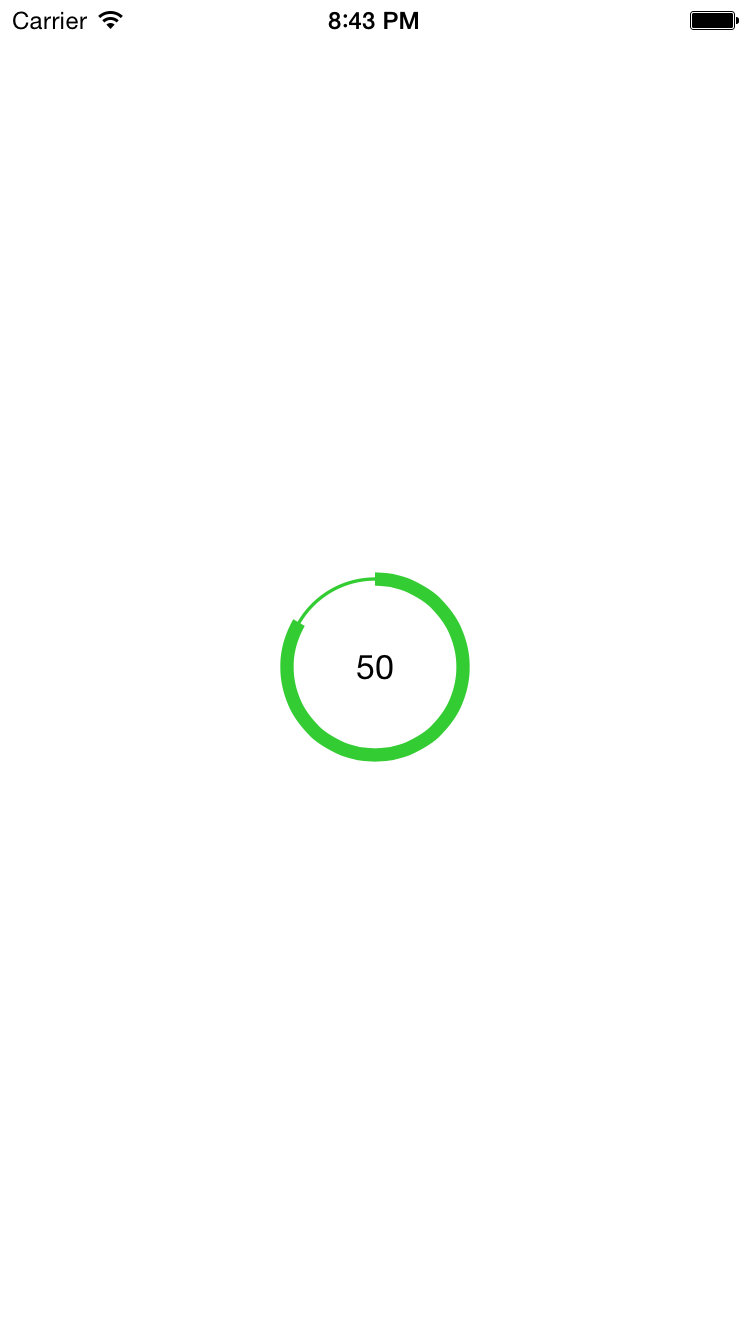
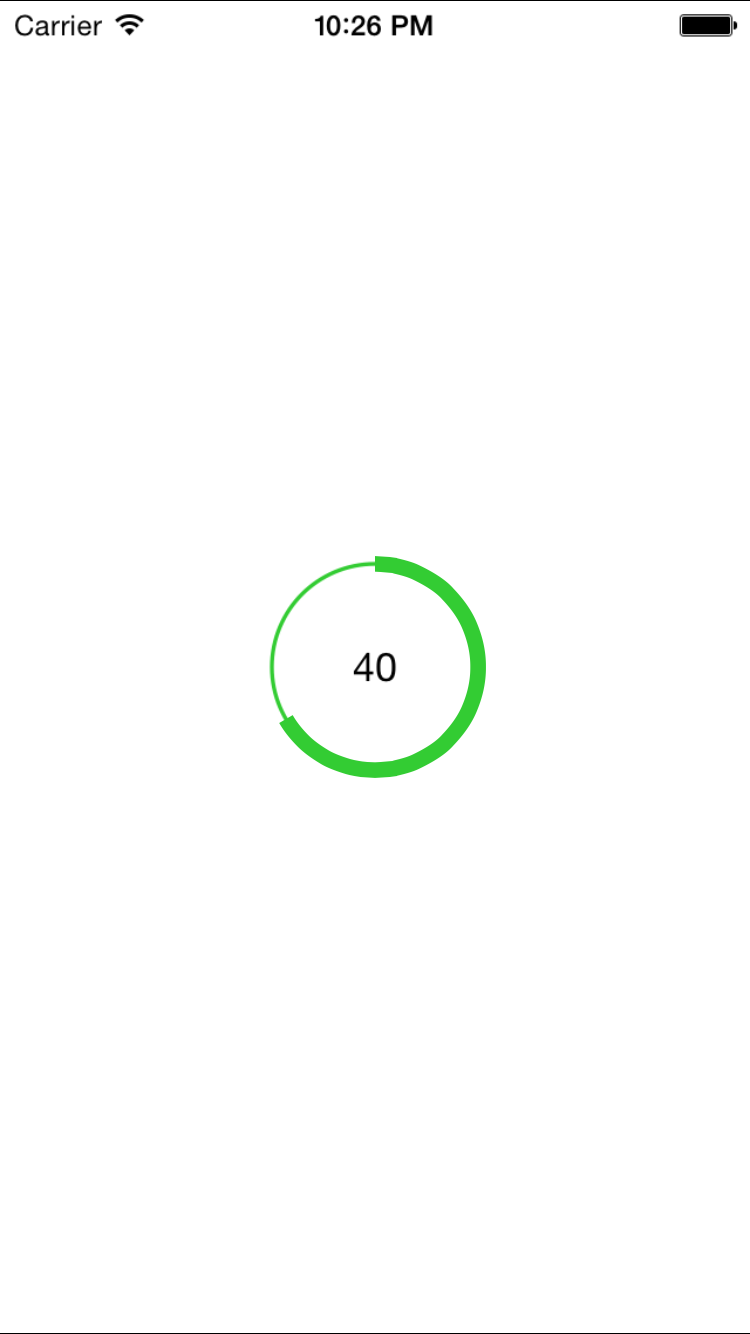
Update Example and README.md

diff --git a/Example/JSKTimerView/JSKViewController.m b/Example/JSKTimerView/JSKViewController.m
@@ -8,7 +8,10 @@
 
 #import "JSKViewController.h"
 
+
+
 @interface JSKViewController ()
+@property (weak, nonatomic) IBOutlet JSKTimerView *timerView;
 
 @end
 
@@ -17,13 +20,45 @@
 - (void)viewDidLoad
 {
     [super viewDidLoad];
-	// Do any additional setup after loading the view, typically from a nib.
+	
+    // Start timer
+    [self.timerView startTimerWithDuration:60];
+    
+    // Pause timer after 10 seconds
+    dispatch_after(dispatch_time(DISPATCH_TIME_NOW, (int64_t)(10 * NSEC_PER_SEC)), dispatch_get_main_queue(), ^{
+        [self.timerView pauseTimer];
+    });
+    
+    // Start timer again after 15 seconds
+    dispatch_after(dispatch_time(DISPATCH_TIME_NOW, (int64_t)(15 * NSEC_PER_SEC)), dispatch_get_main_queue(), ^{
+        [self.timerView startTimer];
+    });
+    
+    // Stop timer after 20 seconds
+    dispatch_after(dispatch_time(DISPATCH_TIME_NOW, (int64_t)(20 * NSEC_PER_SEC)), dispatch_get_main_queue(), ^{
+        [self.timerView stopTimer];
+    });
+    
+    // Reset timer back to original value after 25 seconds
+    dispatch_after(dispatch_time(DISPATCH_TIME_NOW, (int64_t)(25 * NSEC_PER_SEC)), dispatch_get_main_queue(), ^{
+        [self.timerView resetTimer];
+    });
+    
+    // Restart timer after 30 seconds
+    dispatch_after(dispatch_time(DISPATCH_TIME_NOW, (int64_t)(30 * NSEC_PER_SEC)), dispatch_get_main_queue(), ^{
+        [self.timerView restartTimer];
+    });
 }
 
-- (void)didReceiveMemoryWarning
-{
-    [super didReceiveMemoryWarning];
-    // Dispose of any resources that can be recreated.
+#pragma mark - JSK Timer View Delegate 
+
+- (void)timerDidFinish {
+    // Show an alert when timer finishes
+    UIAlertController *alertController = [UIAlertController alertControllerWithTitle:@"Alert" message:@"Timer finished!" preferredStyle:UIAlertControllerStyleAlert];
+    [alertController addAction:[UIAlertAction actionWithTitle:@"Ok" style:UIAlertActionStyleDefault handler:^(UIAlertAction *action) {
+        NSLog(@"Timer finished!");
+    }]];
 }
+
 
 @end

diff --git a/Example/JSKTimerView/JSKViewController.h b/Example/JSKTimerView/JSKViewController.h
@@ -7,7 +7,8 @@
 //
 
 #import <UIKit/UIKit.h>
+#import <JSKTimerView/JSKTimerView.h>
 
-@interface JSKViewController : UIViewController
+@interface JSKViewController : UIViewController <JSKTimerViewDelegate>
 
 @end

diff --git a/README.md b/README.md
@@ -5,13 +5,28 @@
 [![License](https://img.shields.io/cocoapods/l/JSKTimerView.svg?style=flat)](http://cocoadocs.org/docsets/JSKTimerView)
 [![Platform](https://img.shields.io/cocoapods/p/JSKTimerView.svg?style=flat)](http://cocoadocs.org/docsets/JSKTimerView)
 
+![Screenshot0][img0] 
+![Screenshot1][img1]
+![Screenshot2][img2]
+![Screenshot3][img3]
+
+JSKTimerView is a simple custom UIView that acts as a self-contained, animating timer.
+
+* Set up timer based in seconds
+* Start timer and have it animate automatically
+* Full control of timer: start, pause, stop, reset, and reset
+* Manually set timer progress and have timer update accordingly
+* Get notified when timer has finished
+* iOS 7+ and up
+
 ## Usage
 
 To run the example project, clone the repo, and run `pod install` from the Example directory first.
 
 ## Requirements
 
-None
+* iOS 7.0+
+* ARC
 
 ## Installation
 
@@ -19,6 +34,59 @@ JSKTimerView is available through [CocoaPods](http://cocoapods.org). To install
 it, simply add the following line to your Podfile:
 
     pod "JSKTimerView"
+
+# Getting Started
+
+````objective-c
+#import <JSKTimerView/JSKTimerView.h>    // Import the relevant header
+````
+
+Create a 60-sec timer
+```objective-c
+JSKTimerView *timerView = [[JSKTimerView alloc] init];
+[timerView setTimerWithDuration:60];
+```
+
+Start a timer
+```objective-c
+[timerView startTimer];
+```
+
+Pause a timer
+```objective-c
+[timerView pauseTimer];
+```
+
+Stop a timer
+```objective-c
+[timerView stopTimer];
+```
+
+Reset a timer
+```objective-c
+[timerView resetTimer];
+```
+
+Restart a timer
+```objective-c
+[timerView restartTimer];
+```
+
+Set timer progress manually 
+```objective-c
+// Progress should be a value between 0 and 1, timer value updates automatically
+timerView.progress = 0.5;
+```
+
+Know when the timer naturally ends
+```objective-c
+// Assume self refers to object that implements timerDidFinish method of JSKTimerViewDelegate
+timerView.setDelegate = self;
+
+- (void)timerDidFinish {
+    NSLog(@"Timer finished");
+}
+```
 
 ## Author
 
@@ -28,3 +96,11 @@ Joefrey Kibuule, jeff.kibuule@outlook.com
 
 JSKTimerView is available under the MIT license. See the LICENSE file for more info.
 
+>**Copyright &copy; 2015 Joefrey Kibuule.**
+
+*Please provide attribution, it is greatly appreciated.*
+
+[img0]:https://raw.github.com/jeffkibuule/JSKTimerView/Pod/Assets/img0.png
+[img1]:https://raw.github.com/jeffkibuule/JSKTimerView/Pod/Assets/img1.png
+[img2]:https://raw.github.com/jeffkibuule/JSKTimerView/Pod/Assets/img2.png
+[img3]:https://raw.github.com/jeffkibuule/JSKTimerView/Pod/Assets/img3.png
